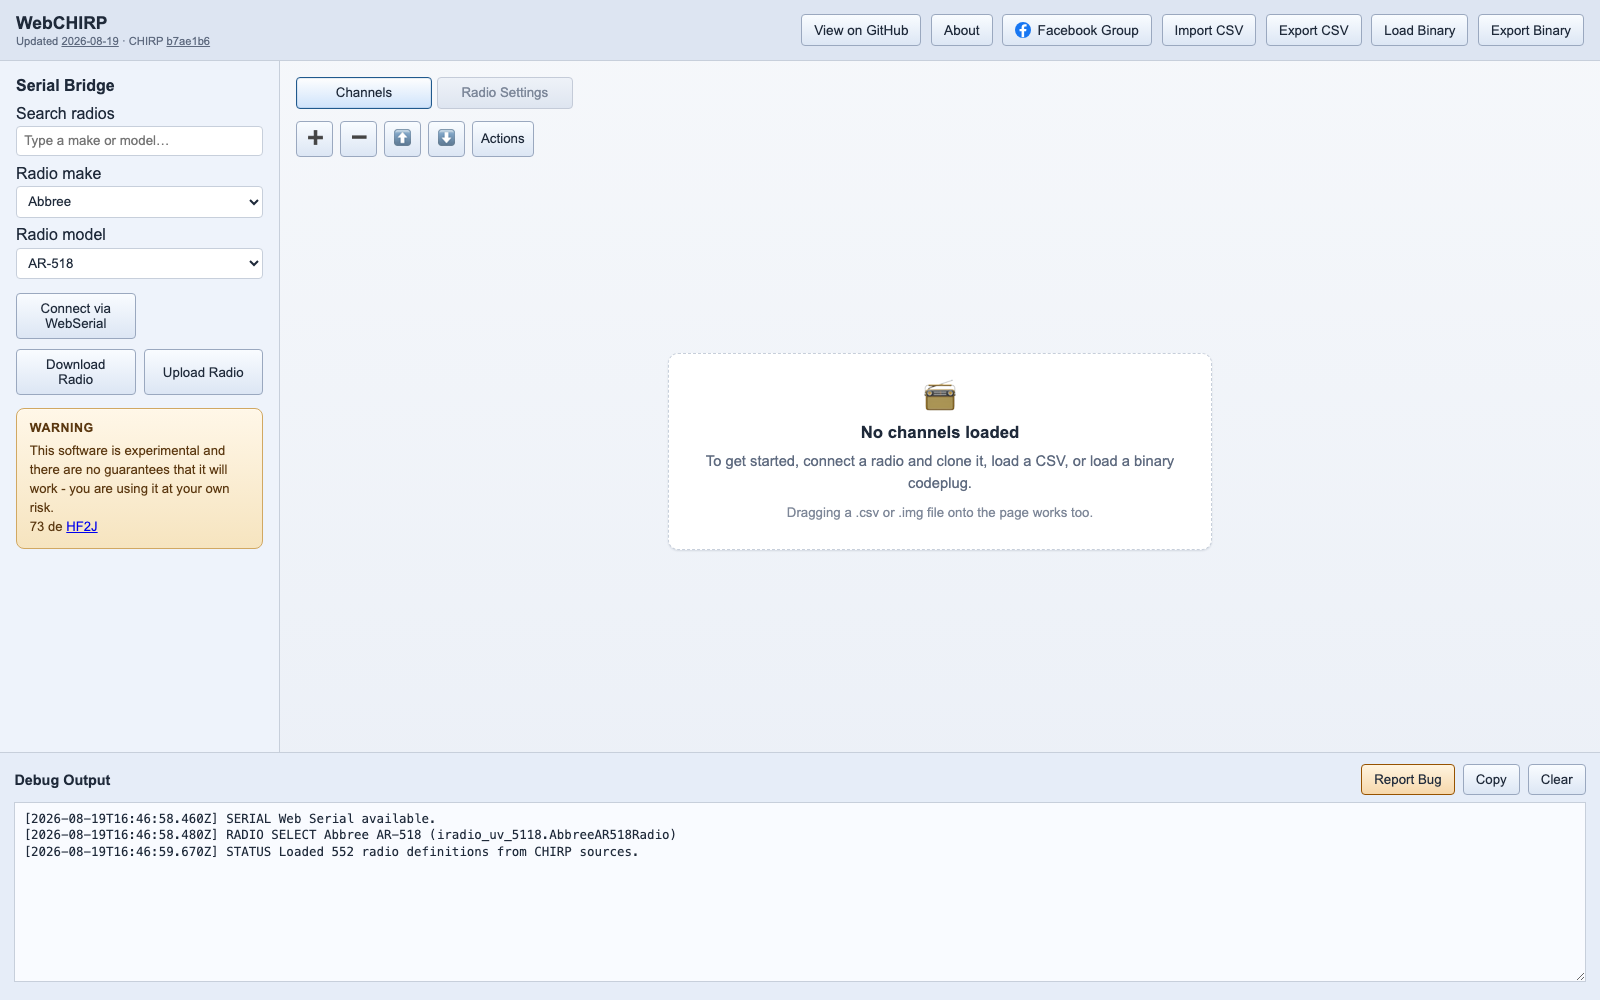
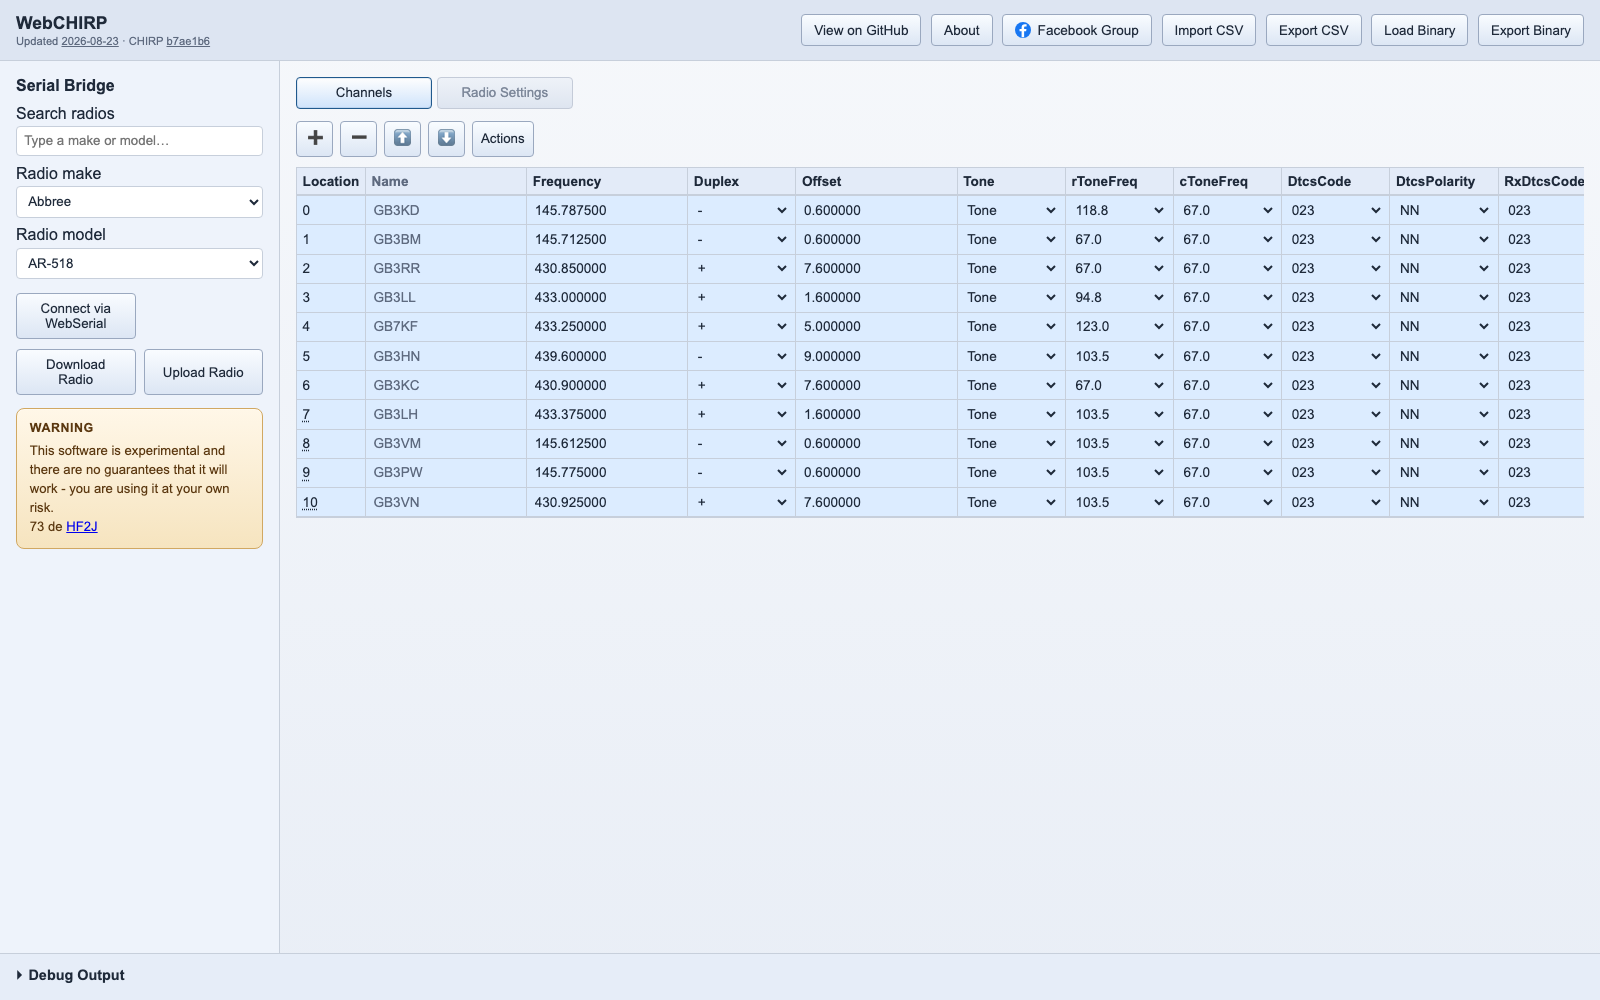
Fold Debug Output into a compact disclosure
Keep the app-wide progress strip visible while collapsing the debug actions and log by default, exposing the existing panel through an accessible toggle.

Add regression coverage for the folded and expanded states. Refresh the release assets, and update the screenshot harness to load live RSGB channels around IO82MM after the selected radio schema is ready.

diff --git a/web/index.html b/web/index.html
@@ -302,19 +302,32 @@
           <progress id="app-progress-bar" max="100"></progress>
         </div>
         <div class="debug-header">
-          <h2>Debug Output</h2>
-          <div class="debug-actions">
+          <h2>
+            <button
+              id="debug-toggle"
+              class="debug-toggle"
+              type="button"
+              aria-expanded="false"
+              aria-controls="debug-actions debug-output-content"
+            >
+              <span class="debug-toggle-icon" aria-hidden="true">&#9656;</span>
+              Debug Output
+            </button>
+          </h2>
+          <div id="debug-actions" class="debug-actions" hidden>
             <button id="report-issue" type="button">Report Bug</button>
             <button id="debug-copy" type="button">Copy</button>
             <button id="debug-clear" type="button">Clear</button>
           </div>
         </div>
-        <textarea
-          id="debug-output"
-          readonly
-          spellcheck="false"
-          placeholder="Runtime logs will appear here..."
-        ></textarea>
+        <div id="debug-output-content" class="debug-output-content" hidden>
+          <textarea
+            id="debug-output"
+            readonly
+            spellcheck="false"
+            placeholder="Runtime logs will appear here..."
+          ></textarea>
+        </div>
       </section>
     </div>
 

diff --git a/web/js/ui/debug-log.js b/web/js/ui/debug-log.js
@@ -7,6 +7,17 @@ import { trackEvent } from "./analytics.js";
 export function createDebugLog({ dom }) {
   let lastErrorSummary = "";
 
+  function isExpanded() {
+    return dom.debugToggleEl.getAttribute("aria-expanded") === "true";
+  }
+
+  function setExpanded(expanded) {
+    const nextExpanded = Boolean(expanded);
+    dom.debugToggleEl.setAttribute("aria-expanded", nextExpanded ? "true" : "false");
+    dom.debugActionsEl.hidden = !nextExpanded;
+    dom.debugOutputContentEl.hidden = !nextExpanded;
+  }
+
   function captureErrorSummary(line) {
     const text = String(line || "");
     if (!/\b(error|traceback|exception)\b/i.test(text)) {
@@ -79,6 +90,12 @@ export function createDebugLog({ dom }) {
   }
 
   function bindEvents() {
+    // Keep the initial state explicit here as well as in the HTML, so the
+    // accessibility state and both hidden regions can never drift apart.
+    setExpanded(false);
+    dom.debugToggleEl.addEventListener("click", () => {
+      setExpanded(!isExpanded());
+    });
     dom.debugClearEl.addEventListener("click", () => {
       clear();
     });

diff --git a/web/styles.css b/web/styles.css
@@ -1260,7 +1260,7 @@ button:disabled {
   display: flex;
   align-items: center;
   justify-content: space-between;
-  margin-bottom: 0.4rem;
+  gap: 0.75rem;
 }
 
 .debug-actions {
@@ -1268,9 +1268,47 @@ button:disabled {
   gap: 0.5rem;
 }
 
+.debug-actions[hidden],
+.debug-output-content[hidden] {
+  display: none;
+}
+
 .debug-header h2 {
+  flex: 1;
   margin: 0;
   font-size: 0.9rem;
+}
+
+.debug-toggle {
+  display: flex;
+  align-items: center;
+  gap: 0.35rem;
+  width: 100%;
+  border: 0;
+  background: none;
+  color: inherit;
+  padding: 0.15rem 0;
+  font: inherit;
+  text-align: left;
+}
+
+.debug-toggle:not(:disabled):hover {
+  color: var(--accent);
+}
+
+.debug-toggle-icon {
+  display: inline-block;
+  font-size: 1rem;
+  line-height: 1;
+  transition: transform 120ms ease;
+}
+
+.debug-toggle[aria-expanded="true"] .debug-toggle-icon {
+  transform: rotate(90deg);
+}
+
+.debug-output-content {
+  margin-top: 0.4rem;
 }
 
 #report-issue {

diff --git a/web/js/ui/dom.js b/web/js/ui/dom.js
@@ -22,6 +22,9 @@ export const REQUIRED_ELEMENTS = {
   fileInput: "#csv-file",
   imgFileInput: "#img-file",
   dropOverlayEl: "#drop-overlay",
+  debugToggleEl: "#debug-toggle",
+  debugActionsEl: "#debug-actions",
+  debugOutputContentEl: "#debug-output-content",
   debugOutputEl: "#debug-output",
   debugClearEl: "#debug-clear",
   debugCopyEl: "#debug-copy",

diff --git a/FINDINGS.md b/FINDINGS.md
@@ -140,6 +140,7 @@ CHIRP `b7ae1b6`.
 
 ## Process
 
+- **release-screenshots-use-live-rsgb-data** (2026-08-23): `npm run screenshots` waits for the selected radio's schema to finish loading, then drives the public repeater-query controls to load RSGB channels around `IO82MM` before capture. Waiting only for the static make dropdown is too early: it fills before Pyodide has loaded the selected driver's metadata, so the query can open against an empty channel schema. Keep the locator and query path in the capture script rather than seeding table internals, so screenshots remain reproducible and exercise the real UI flow.
 - **dom-elements-are-a-checked-contract** (2026-07-27, reduced 2026-08-07): `?.` / `if (!el) return` guards over `document.querySelector` results are not defensive — they conceal removals, and they never prevented a crash anyway, because the same elements were dereferenced unguarded elsewhere. `web/js/ui/dom.js` declares every element required and throws once naming all missing ones. The one survivor of the drift that motivated this: the `serialTxRx` RPC in `web/js/runtime-rpc.js:451` is still reachable only through the `RUNTIME_METHODS` table, with no caller anywhere, long after its `#serial-transaction` markup was deleted.
 - **merge-can-drop-tests** (2026-07-23): "take theirs" resolutions on `package.json` need an explicit check that branch-added test entries survive into `npm run test:channels` — an upstream merge once took master's `package.json` wholesale and silently dropped two clipboard test scripts.
 - **worktree-needs-submodule-init** (2026-07-27, count corrected 2026-08-07): a fresh git worktree starts with an empty `chirp/`, so every Pyodide-backed test fails with `Invalid CHIRP source dir` — errors that look like real regressions. That is 9 of the suites in `npm run test:channels`, plus `test:settings` and `test:hw`. `git submodule update --init` inside the worktree fixes it and is fast; it reuses the existing `.git/modules/chirp` objects.

diff --git a/RELEASE_NOTES.md b/RELEASE_NOTES.md
@@ -1,5 +1,8 @@
 # Release Notes
 
+## 2026-08-23
+- Debug Output now starts folded into a compact footer row and expands on demand, leaving more room for channels while keeping app-wide progress visible.
+
 ## 2026-08-19
 - Browsers that cannot run WebCHIRP fully now grey out the app behind an explanation panel instead of a small sidebar note: it says when no serial transport exists (radio programming needs Web Serial — Chrome, Edge or recent Firefox) and when WebAssembly stack switching is missing so radio drivers cannot load at all (old Firefox — update), shows both on Safari, and offers "Continue anyway" for file-based editing.
 
